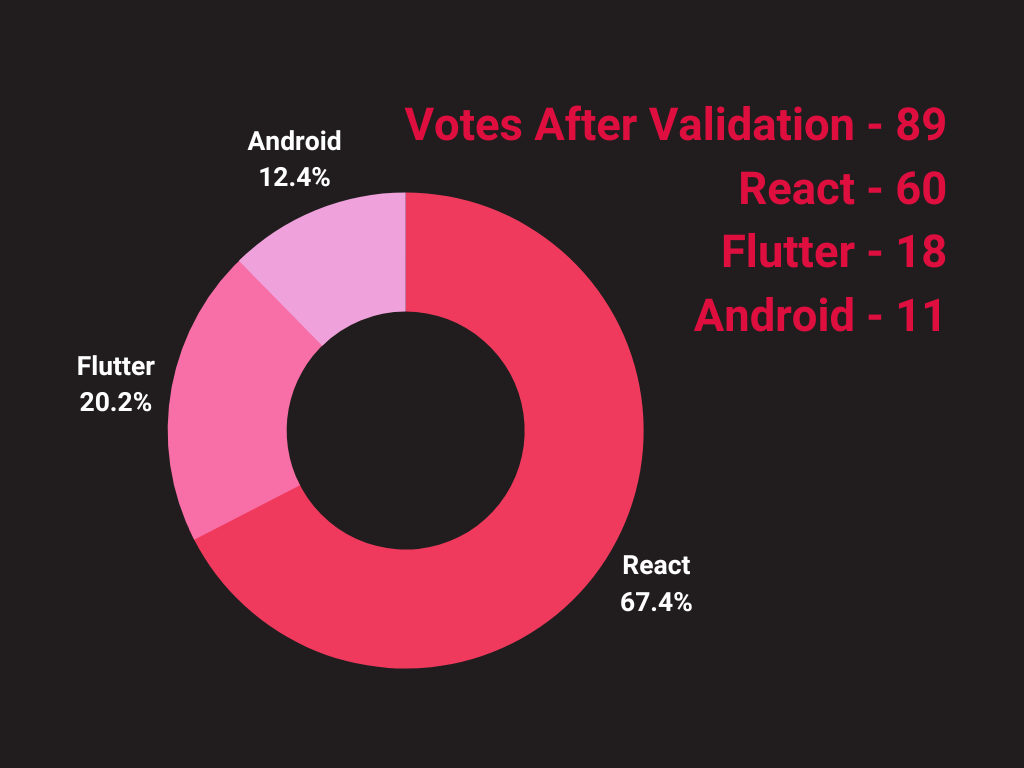
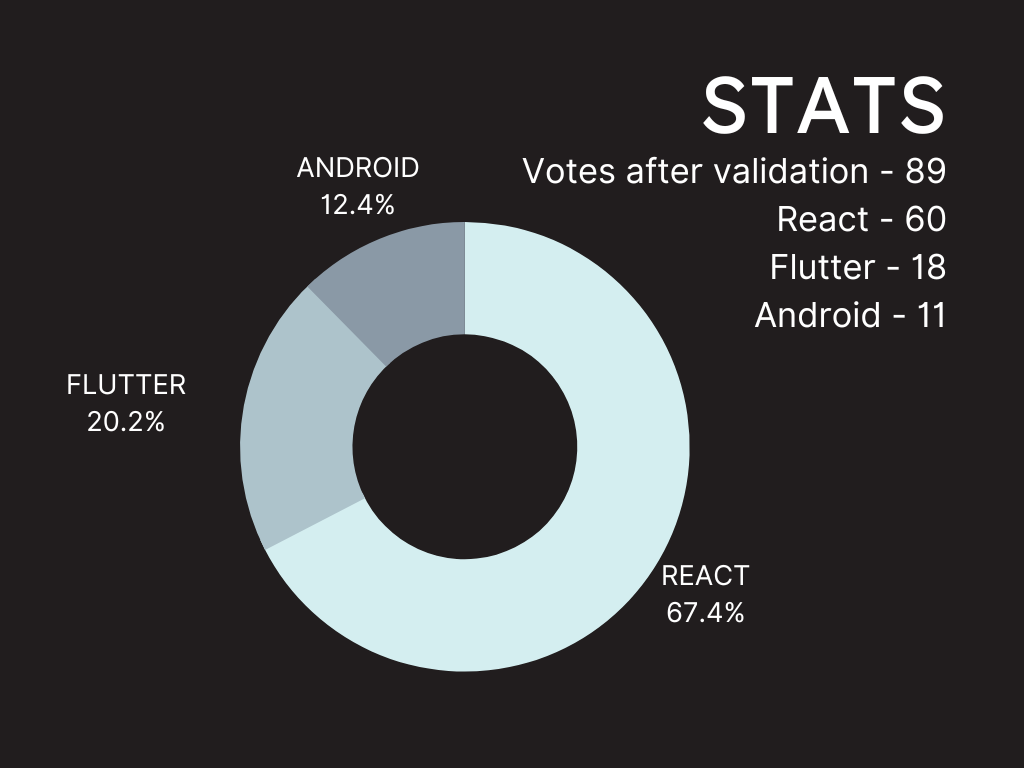
final pie chart

Changed region(s): [[0.0625, 0.0938, 0.9375, 0.875]]

diff --git a/index.html b/index.html
@@ -160,86 +160,12 @@
         <div id="technology-poll" class="section" style="font-family: Lexend">
             <div class="section-header row justify-content-center align-items-center text-center">Technology Poll Results for Fall 2022</div>
             
-            <!-- <div id = "techPollResults"  >
+            <div id = "techPollResults"  >
                 <picture>
                     <source srcset="./assets/img/TechPoll.png" type="image/webp" />
-                    <img src="./assets/img/TechPoll.png"/>
+                    <img src="./assets/svg/TechPoll.svg"/>
                 </picture>
-            </div> -->
-
-            
-            <div class = "techPollPie">
-                <canvas id="c"></canvas>
-                <script>
-                    let data = [
-                        {name:'React', troops:60},
-                        {name:'Flutter', troops:18},
-                        {name:'Android', troops:11}
-                    ];
-                    const randomHexColorCode = () => {
-                        return "#" + Math.random().toString(16).slice(2, 8)
-                    };
-                    
-                    document.addEventListener('DOMContentLoaded', ()=>{
-                        let canvas = document.getElementById('c');
-                        let ctx = canvas.getContext('2d');
-                        canvas.width = 800;
-                        canvas.height = 600;
-                        let total = data.reduce( (ttl, house) => {
-                            return ttl + house.troops
-                        }, 0);
-                        let startAngle = 0; 
-                        let radius = 100;
-                        let cx = canvas.width/2;
-                        let cy = canvas.height/2;
-
-
-                        data.forEach( house => {
-                            if(house.name == 'React'){
-                                ctx.fillStyle = "#DE0F3F";
-                            } else if (house.name == "Flutter"){
-                                ctx.fillStyle = "#F25881";
-                            } else{
-                                ctx.fillStyle = "#F98DBA";  
-                            }
-                            ctx.lineWidth = 1;
-                            ctx.strokeStyle = '#333';
-                            ctx.beginPath();
-                            let endAngle = ((house.troops / total) * Math.PI * 2) + startAngle;
-                            ctx.moveTo(cx, cy);
-                            ctx.arc(cx, cy, radius, startAngle, endAngle, false);
-                            ctx.lineTo(cx, cy);
-                            ctx.fill();
-                            ctx.stroke();
-                            ctx.closePath();
-                            ctx.beginPath();
-                            ctx.font = '25px Helvetica, Calibri';
-                            ctx.textAlign = 'center';
-                            ctx.fillStyle = 'white';
-                            let theta = (startAngle + endAngle) / 2;
-                            let deltaY = Math.sin(theta) * 1.5 * radius;
-                            let deltaX = Math.cos(theta) * 1.5 * radius;
-                            ctx.fillText(house.name, deltaX+cx, deltaY+cy);
-                            ctx.closePath();
-                            startAngle = endAngle;
-                        })
-                    });
-                </script>
             </div>
-
-            <div class="card-body text-center">
-                <span>
-                    <h1>STATISTICS:</h1> <BR>
-                    <h3>Votes After Validation - 89</h3>
-                    <h3>React - 60</h3>
-                    <h3>Flutter - 18</h3>
-                    <h3>Android - 11</h3> 
-                    <BR>
-                    <h4>  Our poll has concluded, and as the results suggest, we will be covering <strong>REACT</strong> next semester. </h4>
-                    <h6>   Stay tuned! The syllabus will be updated soon. </h6>
-                </span> 
-            </div>
-            
             
             <!-- <div class="container-fluid">
                 <div class="row justify-content-center">
